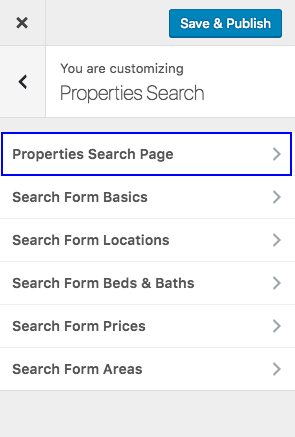
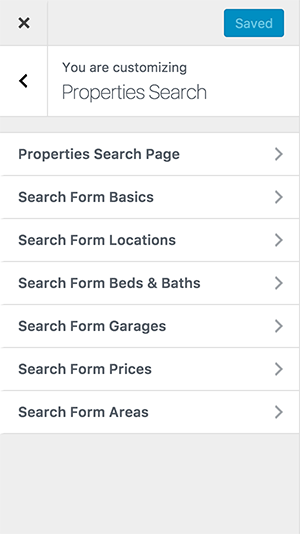
Garages field added properties search docs 💯

diff --git a/index.html b/index.html
@@ -1108,7 +1108,32 @@
                             </div>
                             <hr>
 
-                            <h3>Step 6. Minimum and Maximum Prices</h3>
+                            <h3>Step 6. Minimum and Maximum Values For Garages</h3>
+                            <p>
+                                <strong>Properties Search</strong> panel contains a special section for <strong>Garages</strong>.
+                                Using which, Garages fields can be customized to your requirements.
+                            </p>
+
+                            <div class="row">
+                                <div class="col-lg-4">
+                                    <img class="light-border" src="assets/realhomes/property-search/garages-fields.png" alt="Real Homes Theme Documentation"/>
+                                </div>
+
+                                <div class="col-lg-8">
+                                    <p>
+                                        In this section:
+                                        <br><br>
+                                        <strong>1)</strong> You can modify the Labels for the Garages Field.
+                                        <br><br>
+                                        <strong>2)</strong> You can also provide the values to be displayed in the drop-down lists for this field.
+                                        <br><br>
+                                        <strong>3)</strong> You can modify the search behaviour for garages to Minimum, Maximum or Equals.
+                                    </p>
+                                </div>
+                            </div>
+                            <hr>
+
+                            <h3>Step 7. Minimum and Maximum Prices</h3>
                             <p>
                                 <strong>Properties Search</strong> panel also contains a special section for <strong>Prices</strong>.
                                 Using which, Minimum and Maximum prices fields can be customized to your requirements.
@@ -1123,7 +1148,7 @@
                             </div>
                             <hr>
 
-                            <h3>Step 7. Minimum and Maximum Area / Related Labels and Placeholder Texts</h3>
+                            <h3>Step 8. Minimum and Maximum Area / Related Labels and Placeholder Texts</h3>
                             <p>
                                 <strong>Properties Search</strong> panel contains a section for <strong>Area</strong>.
                                 Using which, Minimum and Maximum area fields can be customized to your requirements.
